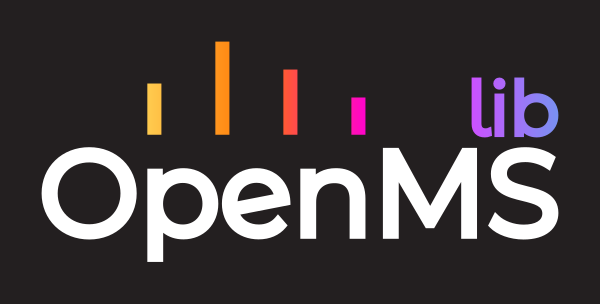
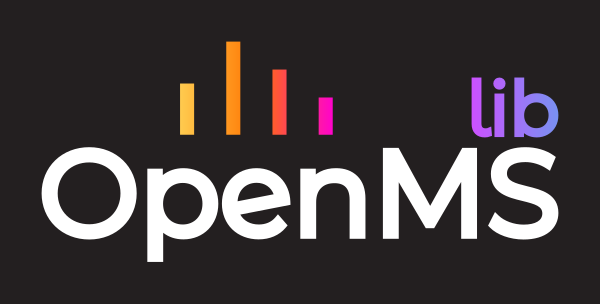
peak4-pen: centre bars over "pen" with 15% padding each side
Adds peak_wordmark(spread_padding=...).

diff --git a/openms_logo/presets.py b/openms_logo/presets.py
@@ -164,7 +164,8 @@ PEAK_COLORS = ("yellow", "orange", "pink", "purple")
 def peak_wordmark(theme: str = "standard", heights=(0.55, 1.0, 0.55), suffix: str = "lib",
                   prefix: str = "", colors: str = "solid", peak_height: float = 112.0,
                   over: str = "Open", suffix_scale: float = 0.62,
-                  spread: str | None = None, suffix_span: bool = False):
+                  spread: str | None = None, suffix_span: bool = False,
+                  spread_padding: float = 0.0):
     """One-line "OpenMS" + suffix with a small peak of bars standing above it.
 
     ``heights``: bar heights as fractions of ``peak_height`` (empty = no bars).
@@ -172,6 +173,8 @@ def peak_wordmark(theme: str = "standard", heights=(0.55, 1.0, 0.55), suffix: st
     ``over``: centre the peak over "Open" or "OpenMS" (bars at the official pitch).
     ``spread``: instead, stretch the bars evenly across "pen" or "Open"
     (outer bar edges flush with the outer letter edges; bar width unchanged).
+    ``spread_padding``: inset on each side of the spread, as a fraction of
+    the spread width (0.15 = bars cover the middle 70%, still centred).
     ``suffix_span``: letter-space the suffix so it spans the width of "MS".
     """
     from .text import letter_gap, logo_text
@@ -185,6 +188,8 @@ def peak_wordmark(theme: str = "standard", heights=(0.55, 1.0, 0.55), suffix: st
             x0, x_end = first.bounds[0], letters[3].bounds[2]
             if suffix_span:   # keep the last bar clear of the suffix above "M"
                 x_end = min(x_end, letters[4].bounds[0] - 2 * AXIS_GAP)
+            inset = (x_end - x0) * spread_padding
+            x0, x_end = x0 + inset, x_end - inset
             width = x_end - x0
             pitch = (width - brand.BAR_WIDTH) / max(len(heights) - 1, 1)
         else:
@@ -236,9 +241,9 @@ SPAN_SCALE = 0.8                       # "lib" size when it spans "MS"
 
 
 def openms_lib_peak4_pen(theme: str = "standard"):
-    """peak4 with the bars spread across "pen"."""
+    """peak4 with the bars centred over "pen", covering its middle 70%."""
     return peak_wordmark(theme, heights=PEAK4_SPREAD, colors="gradient", spread="pen",
-                         peak_height=SPREAD_HEIGHT)
+                         peak_height=SPREAD_HEIGHT, spread_padding=0.15)
 
 
 def openms_lib_peak4_open(theme: str = "standard"):

diff --git a/previews/README.md b/previews/README.md
@@ -7,7 +7,7 @@ Only **full** is the official logo. Everything else is a derived sublogo that is
 |---|---|---|
 | **full**<br>The official OpenMS logo: 6 letters + 16 bars, original positions. | <img src="full.png" width="300" alt="full"> | <img src="full-white.png" width="300" alt="full-white"> |
 | **openms-lib-peak4**<br>4 bars, skewed peak like pyopenms_viz, yellow -> pink gradient. | <img src="openms-lib-peak4.png" width="300" alt="openms-lib-peak4"> | <img src="openms-lib-peak4-white.png" width="300" alt="openms-lib-peak4-white"> |
-| **openms-lib-peak4-pen**<br>peak4 with the bars spread across "pen". | <img src="openms-lib-peak4-pen.png" width="300" alt="openms-lib-peak4-pen"> | <img src="openms-lib-peak4-pen-white.png" width="300" alt="openms-lib-peak4-pen-white"> |
+| **openms-lib-peak4-pen**<br>peak4 with the bars centred over "pen", covering its middle 70%. | <img src="openms-lib-peak4-pen.png" width="300" alt="openms-lib-peak4-pen"> | <img src="openms-lib-peak4-pen-white.png" width="300" alt="openms-lib-peak4-pen-white"> |
 | **openms-lib-peak4-open**<br>peak4 with the bars spread across "Open". | <img src="openms-lib-peak4-open.png" width="300" alt="openms-lib-peak4-open"> | <img src="openms-lib-peak4-open-white.png" width="300" alt="openms-lib-peak4-open-white"> |
 | **openms-lib-peak4-open-span**<br>Bars spread across "Open", "lib" spanning "MS". | <img src="openms-lib-peak4-open-span.png" width="300" alt="openms-lib-peak4-open-span"> | <img src="openms-lib-peak4-open-span-white.png" width="300" alt="openms-lib-peak4-open-span-white"> |
 | **openms-lib-plain**<br>No bars: one-line "OpenMS" with "lib" above "MS". | <img src="openms-lib-plain.png" width="300" alt="openms-lib-plain"> | <img src="openms-lib-plain-white.png" width="300" alt="openms-lib-plain-white"> |

diff --git a/.claude/skills/openms-logo-generator/SKILL.md b/.claude/skills/openms-logo-generator/SKILL.md
@@ -77,7 +77,7 @@ A bar you move keeps exactly the colour it has in the official logo, so don't re
 
 | `openms-lib-square-top/-bottom/-ink` | **square stack**: "Open" over "MS lib", left-aligned. The suffix is sized so the second line is exactly as wide as "Open". Bars 1–10 are centred above "Open" (top, ink) or hang below "MS lib" (bottom). Use `presets.square_lib(theme, suffix=..., bars=..., suffix_paint=...)`. |
 | `openms-lib-peak3/-peak4/-peak4-tall/-peak4-solid/-plain` | **peak wordmark** (simplest; preferred direction as of 2026-11). It uses the spectrum layout with one small peak of 3–4 bars that rise and fall, centred over "Open", or no bars at all. Bars are either solid logo colours or a yellow → pink gradient, and the suffix is purple → blue. Variants:
-  - `-pen` and `-open` spread the 4 bars evenly across "pen" or "Open" (`spread=`), with taller bars (`SPREAD_HEIGHT`).
+  - `-pen` and `-open` spread the 4 bars evenly across "pen" or "Open" (`spread=`), with taller bars (`SPREAD_HEIGHT`). `-pen` keeps 15% padding on each side (`spread_padding=0.15`).
   - `-span` variants enlarge "lib" (`SPAN_SCALE`) and letter-space it across the width of "MS" (`suffix_span=True`).
   - `peak4` is the user's favourite so far; `-pen`, `-open` and `-open-span` refine it.
 
